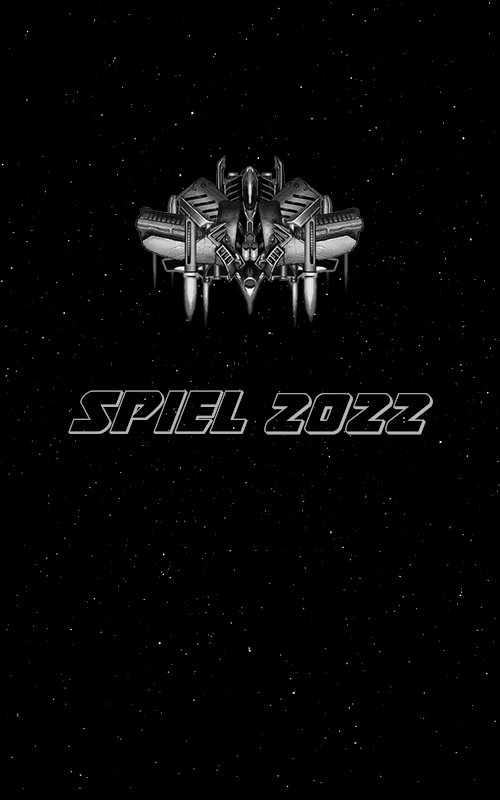
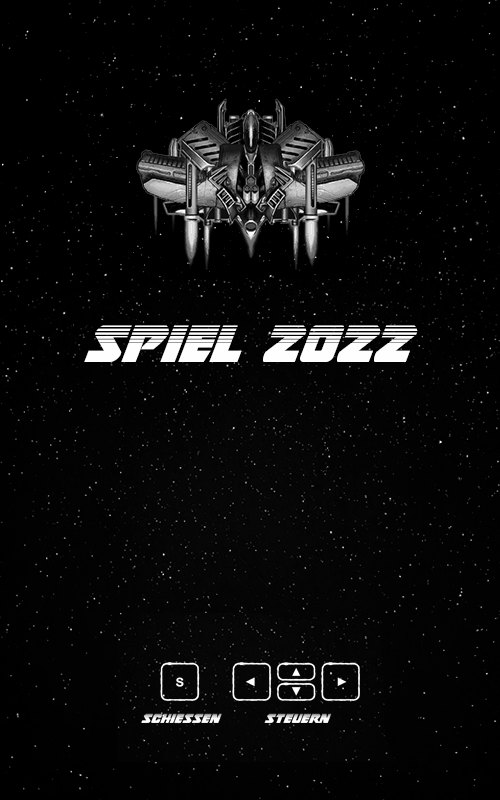
Kommentare gefüllt

Changed region(s): [[0.15, 0.125, 0.87, 0.5625], [0.45, 0.8125, 0.72, 0.9062], [0.27, 0.8125, 0.45, 0.9062]]

diff --git a/src/de/fhkiel/iue/oopming/Player.java b/src/de/fhkiel/iue/oopming/Player.java
@@ -45,10 +45,16 @@ public class Player extends FlyingObject {
     }
 
     public void shoot() {
-
+        // Dadurch kann die Geschosse nach einem bestimmten Zeitintervall abgefeuert werden.
         if (bulletsIntervall % 4 == 0) {
             Bullet bullet = new Bullet(getX(), getY() - getImage().height / 2);
             bullets.add(bullet);
+
+            /* !!!!
+            Der folgende Code führt dazu, dass das Programm auf dem
+            Windows-PC abstürzt, aber nicht auf dem Mac.
+            Ursache hat noch nicht gefunden
+             */
             sound.soundDoc("src/de/fhkiel/iue/oopming/resources/sounds/shootBgm.wav");
             sound.playNoLoop();
         }
@@ -68,12 +74,14 @@ public class Player extends FlyingObject {
     }
 
     public void animation() {
+        // Dies erzeugt eine Animation von Player
         if (images.length > 0) {
             setImage(images[index++ / 5 % images.length]);
         }
     }
 
     public boolean isHitBy(Enemy enemy) {
+        // Erkannt, wenn Plyaer mit einem Feind kollidierte
         return (getX() - getImage().width / 2 < enemy.getX() + enemy.getImage().width / 2 &&
                 getX() + getImage().width / 2 > enemy.getX() - enemy.getImage().width / 2 &&
                 getY() + getImage().height / 2 > enemy.getY() - enemy.getImage().height / 2 &&
@@ -85,7 +93,7 @@ public class Player extends FlyingObject {
         if (pApplet.keyCode == 37) isLeft = flag;
         if (pApplet.keyCode == 38) isUp = flag;
         if (pApplet.keyCode == 40) isDown = flag;
-        if (pApplet.key == 'z' || pApplet.key == 'Z') isShooted = flag;
+        if (pApplet.key == 's' || pApplet.key == 'S') isShooted = flag;
     }
 
 
@@ -110,6 +118,7 @@ public class Player extends FlyingObject {
 
     @Override
     public boolean outOfBounds() {
+        // Erkannt, ab Player außerhalb des Spielfelds
         return getX() >= getImage().width / 2 &&
                 getX() <= Main.WIDTH - getImage().width / 2 &&
                 getY() >= getImage().height / 2 &&

diff --git a/src/de/fhkiel/iue/oopming/screens/GameScreen.java b/src/de/fhkiel/iue/oopming/screens/GameScreen.java
@@ -22,6 +22,7 @@ public class GameScreen extends Screen {
         setImage(Main.background);
 
         for (int i = 0; i < 8; i++) {
+            // 8 Gegner werden in Arraylist gespeichert
             enemies.add(new Enemy(5, 1, 1, Main.enemy1));
         }
 
@@ -29,7 +30,7 @@ public class GameScreen extends Screen {
 
     @Override
     public void showScreen(PApplet pApplet) {
-
+        // Game-Loop
         drawBackground(pApplet);
 
         drawPlayer(pApplet);
@@ -128,6 +129,7 @@ public class GameScreen extends Screen {
                     isExploded = true;
                     player.getBullets().remove(bullet);
                     if (enemyTemp.getResistance() < 1) {
+                        // Wenn Beständigkeit fortgeschrittener Gegner kleine als 1 ist, wird besiegt
                         player.setScore(player.getScore() + enemyTemp.getAward());
                         enemies.remove(enemyTemp);
                         enemies.add(randomEnemy());
@@ -141,6 +143,7 @@ public class GameScreen extends Screen {
     }
 
     public static void resetGame() {
+        // Wenn Player kein Leben mehr, werden Spieldaten wiederhergestellt
         player.setLife(3);
         player.setScore(0);
         player.setX(Main.WIDTH / 2);
@@ -157,11 +160,14 @@ public class GameScreen extends Screen {
     }
 
     public static Enemy randomEnemy() {
+        // Verschiedene Gegner mit unterschiedliche Eingenschaften werden erzeugt, indem verschiedenen Parameter übergegeben werden
         int type = (int) (Math.random() * 15);
         if (type == 0) {
+            // Fortgeschrittene Gegner werden mit niedriger Möglichkeit erzeugt
             return new Enemy(2, 5, 25, Main.bossEnemy);
         } else if (type == 1) return new Enemy(3, 2, 8, Main.enemy2);
         else {
+            // Normale Gegner werden mit größter Möglichkeit erzeugt
             return new Enemy(5, 1, 1, Main.enemy1);
         }
     }

diff --git a/src/de/fhkiel/iue/oopming/screens/StartScreen.java b/src/de/fhkiel/iue/oopming/screens/StartScreen.java
@@ -8,6 +8,7 @@ public class StartScreen extends Screen {
     private SoundEffect sound = new SoundEffect();
 
     public StartScreen() {
+        // Hintergrundmusik wir geloopt
         sound.soundDoc("src/de/fhkiel/iue/oopming/resources/sounds/startBgm.wav");
         sound.playLoop();
     }
@@ -26,7 +27,7 @@ public class StartScreen extends Screen {
         pApplet.image(getImage(), getX(), getY());
         pApplet.textSize(35);
 
-        if (isOnText(pApplet, "START", 590, 35)) {
+        if (isOnText(pApplet, "START", 530, 35)) {
             pApplet.fill(147, 207, 222);
             if (pApplet.mousePressed) {
                 Main.isInGame = true;
@@ -36,15 +37,15 @@ public class StartScreen extends Screen {
         } else {
             pApplet.fill(255);
         }
-        pApplet.text("START", Main.WIDTH / 2, 590);
+        pApplet.text("START", Main.WIDTH / 2, 530);
 
-        if (isOnText(pApplet, "EXIT", 650, 35)) {
+        if (isOnText(pApplet, "EXIT", 585, 35)) {
             pApplet.fill(147, 207, 222);
             if (pApplet.mousePressed) {
                 pApplet.exit();
             }
         } else pApplet.fill(255);
-        pApplet.text("EXIT", Main.WIDTH / 2, 650);
+        pApplet.text("EXIT", Main.WIDTH / 2, 585);
 
     }
 

diff --git a/src/de/fhkiel/iue/oopming/Main.java b/src/de/fhkiel/iue/oopming/Main.java
@@ -54,11 +54,13 @@ public class Main extends PApplet {
 
     @Override
     public void settings() {
+        // Große des Spielfelds wird festgestellt
         size(WIDTH, HEIGHT);
     }
 
     @Override
     public void draw() {
+        //Screen-Controller
         if (isInStart) {
             startScreen.showScreen(this);
         }
@@ -73,8 +75,9 @@ public class Main extends PApplet {
         }
     }
 
-
+// mit den Funktionen keyPressed() und keyReleased() können Charakterbewegung und Geschossschießen gleichzeitig durchgeführt werden.
     public void keyPressed() {
+
         Player.inputControl(this, true);
         if (keyCode == ENTER) {
             isInGame = true;

diff --git a/src/de/fhkiel/iue/oopming/ExploAnimation.java b/src/de/fhkiel/iue/oopming/ExploAnimation.java
@@ -28,11 +28,10 @@ public class ExploAnimation {
     public void drawExplosion(PApplet pApplet) {
         isInDrawExplosion = true;
         int index = refreshIndex / 2;
-        pApplet.image(Main.explosion[index], getX(), getY());
+        pApplet.image(Main.explosion[index], getX(), getY()); // Dadruch werden alle Bilder geladen, damit die Explosionsanimation erzeugt werden kann
         refreshIndex++;
         if (index == Main.explosion.length - 1) {
             GameScreen.isExploded = false;
-//            new PlaySound(soundFiel).start();
             sound.soundDoc("src/de/fhkiel/iue/oopming/resources/sounds/explosionBgm.wav");
             sound.playNoLoop();
 

diff --git a/src/de/fhkiel/iue/oopming/SoundEffect.java b/src/de/fhkiel/iue/oopming/SoundEffect.java
@@ -25,6 +25,7 @@ public class SoundEffect {
         this.clip = clip;
     }
 
+    // Audiodatei wird übergegeben
     public void soundDoc(String soundSource) {
         try {
             setBgm(AudioSystem.getClip());
@@ -35,6 +36,7 @@ public class SoundEffect {
         }
     }
 
+    // Audio wird einmal durchgeführt
     public void playNoLoop() {
         try {
             bgm.open(clip);
@@ -44,6 +46,7 @@ public class SoundEffect {
         }
     }
 
+    // Audio wird geloopt
     public void playLoop() {
         try {
             bgm.open(clip);

diff --git a/src/de/fhkiel/iue/oopming/Enemy.java b/src/de/fhkiel/iue/oopming/Enemy.java
@@ -34,6 +34,7 @@ public class Enemy extends FlyingObject {
     }
 
     public boolean shootBy(Bullet bullet) {
+        // Erkannt, wenn Gegner mit Geschoss kollidierte
         return (this.getX() - getImage().width / 2 < bullet.getX() + bullet.getImage().width / 2 &&
                 this.getX() + getImage().width / 2 > bullet.getX() - bullet.getImage().width / 2 &&
                 this.getY() + getImage().height / 2 > bullet.getY() + bullet.getImage().height / 2 &&

diff --git a/src/de/fhkiel/iue/oopming/screens/Screen.java b/src/de/fhkiel/iue/oopming/screens/Screen.java
@@ -46,6 +46,7 @@ abstract public class Screen {
     }
 
     protected boolean isOnText(PApplet pApplet, String text, int textHeightPos, int textSize) {
+        // Erkennt, ab Maussieger auf den Text ist
         if (pApplet.mouseX > Main.WIDTH / 2 - pApplet.textWidth(text) / 2 &&
                 pApplet.mouseX < Main.WIDTH / 2 + pApplet.textWidth(text) / 2 &&
                 pApplet.mouseY > textHeightPos - textSize + 10 &&

diff --git a/src/de/fhkiel/iue/oopming/FlyingObject.java b/src/de/fhkiel/iue/oopming/FlyingObject.java
@@ -40,7 +40,7 @@ abstract public class FlyingObject {
         this.image = image;
     }
 
+    // Die abstrakten Funktionen werden von Unterklassen überschrieben
     abstract public void move();
-
     abstract public boolean outOfBounds();
 }
